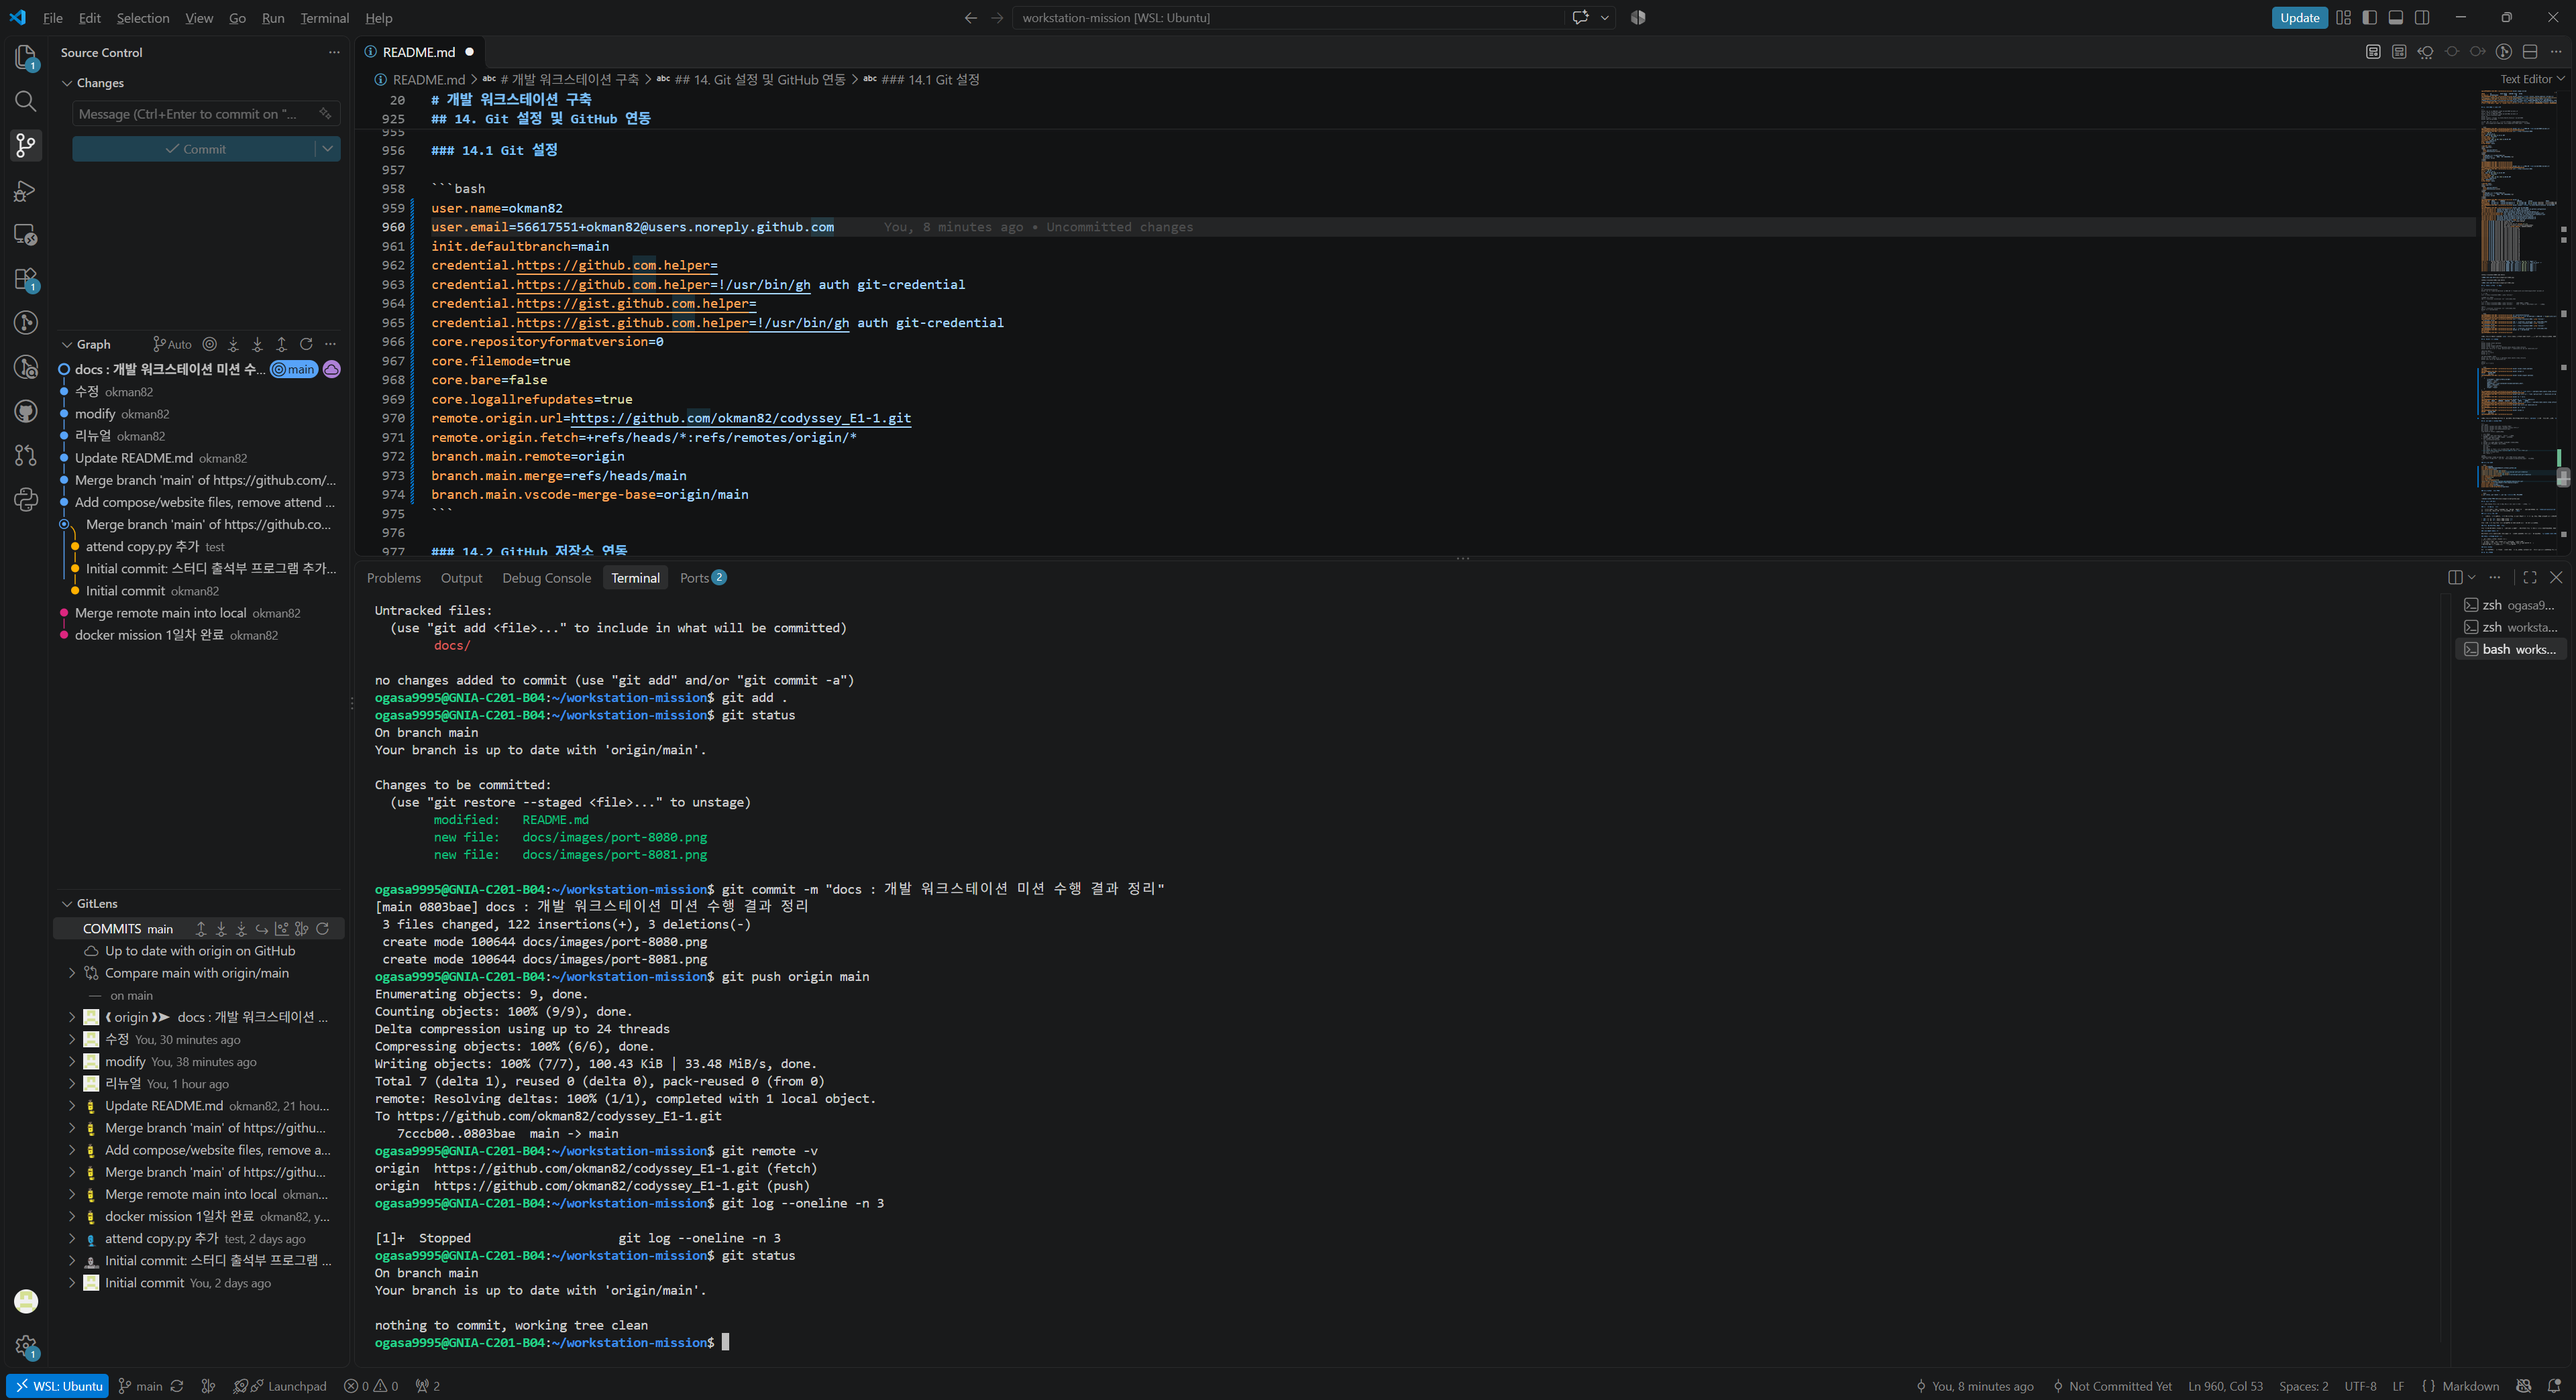
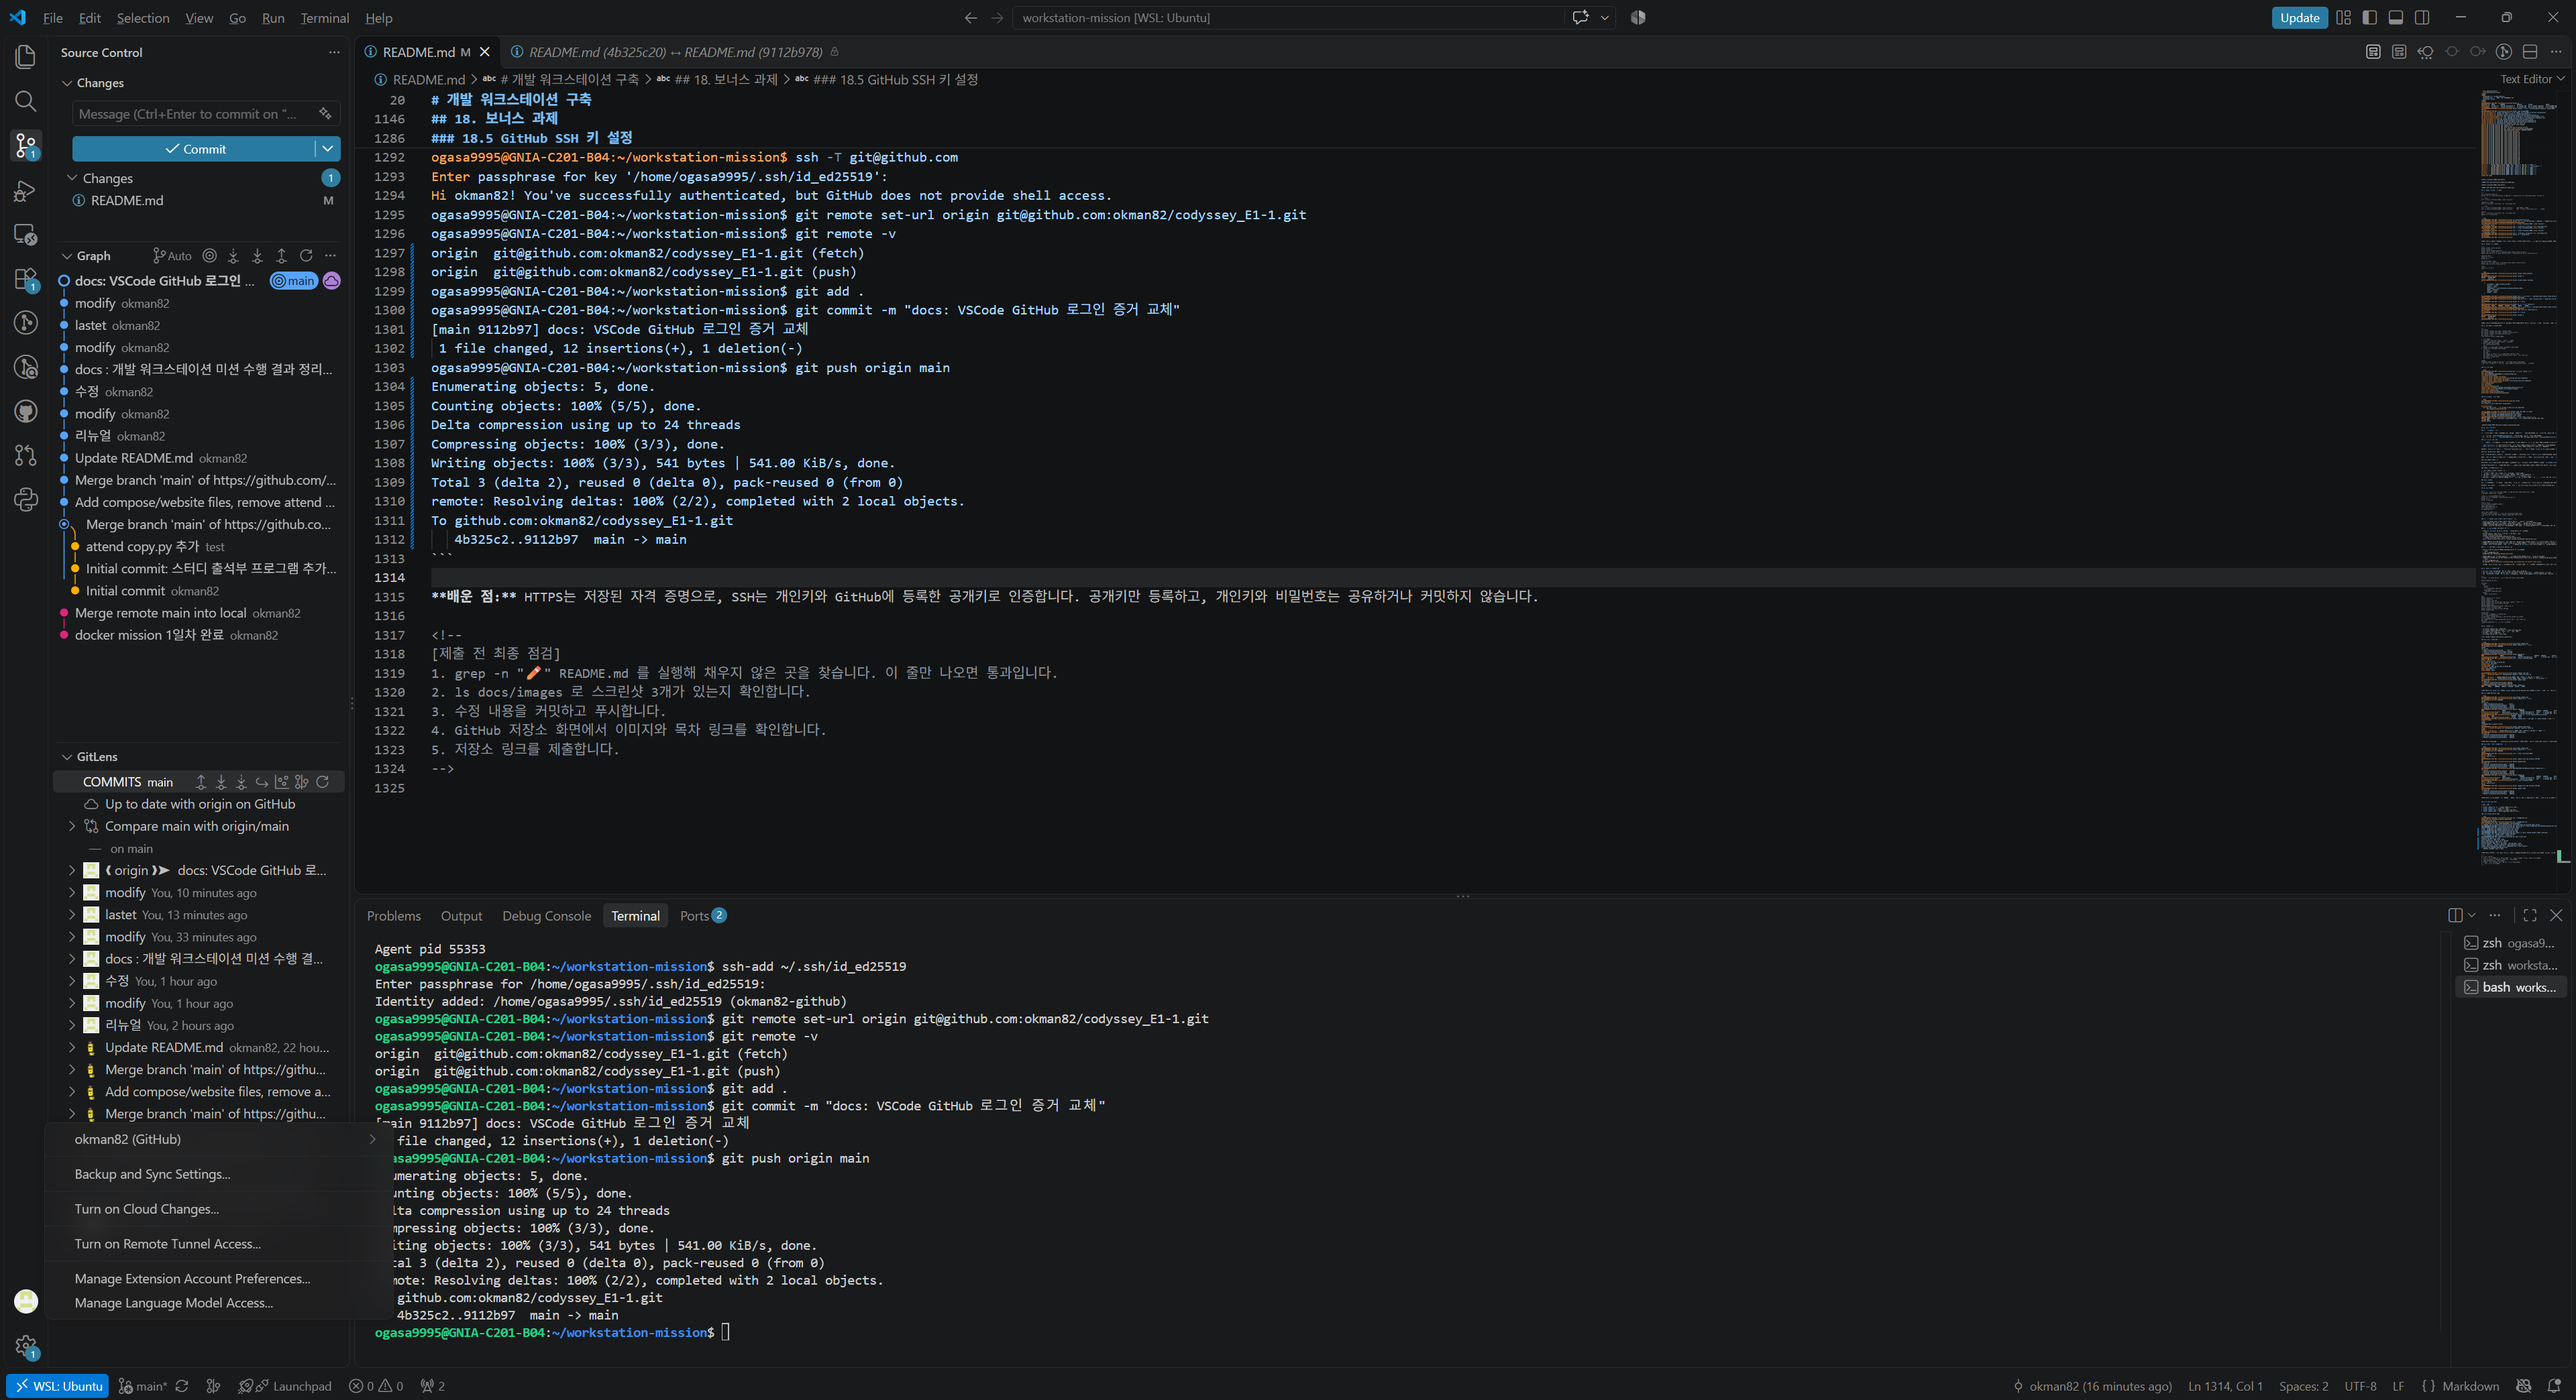
docs: SSH 푸시 로그 수정 및 VSCode 로그인 화면 교체

diff --git a/README.md b/README.md
@@ -1294,10 +1294,22 @@ Enter passphrase for key '/home/ogasa9995/.ssh/id_ed25519':
 Hi okman82! You've successfully authenticated, but GitHub does not provide shell access.
 ogasa9995@GNIA-C201-B04:~/workstation-mission$ git remote set-url origin git@github.com:okman82/codyssey_E1-1.git
 ogasa9995@GNIA-C201-B04:~/workstation-mission$ git remote -v
-origin  https://github.com/okman82/codyssey_E1-1.git (fetch)
-origin  https://github.com/okman82/codyssey_E1-1.git (push)
+origin  git@github.com:okman82/codyssey_E1-1.git (fetch)
+origin  git@github.com:okman82/codyssey_E1-1.git (push)
+ogasa9995@GNIA-C201-B04:~/workstation-mission$ git add .
+ogasa9995@GNIA-C201-B04:~/workstation-mission$ git commit -m "docs: VSCode GitHub 로그인 증거 교체"
+[main 9112b97] docs: VSCode GitHub 로그인 증거 교체
+ 1 file changed, 12 insertions(+), 1 deletion(-)
 ogasa9995@GNIA-C201-B04:~/workstation-mission$ git push origin main
-Everything up-to-date
+Enumerating objects: 5, done.
+Counting objects: 100% (5/5), done.
+Delta compression using up to 24 threads
+Compressing objects: 100% (3/3), done.
+Writing objects: 100% (3/3), 541 bytes | 541.00 KiB/s, done.
+Total 3 (delta 2), reused 0 (delta 0), pack-reused 0 (from 0)
+remote: Resolving deltas: 100% (2/2), completed with 2 local objects.
+To github.com:okman82/codyssey_E1-1.git
+   4b325c2..9112b97  main -> main
 ```
 
 **배운 점:** HTTPS는 저장된 자격 증명으로, SSH는 개인키와 GitHub에 등록한 공개키로 인증합니다. 공개키만 등록하고, 개인키와 비밀번호는 공유하거나 커밋하지 않습니다.
